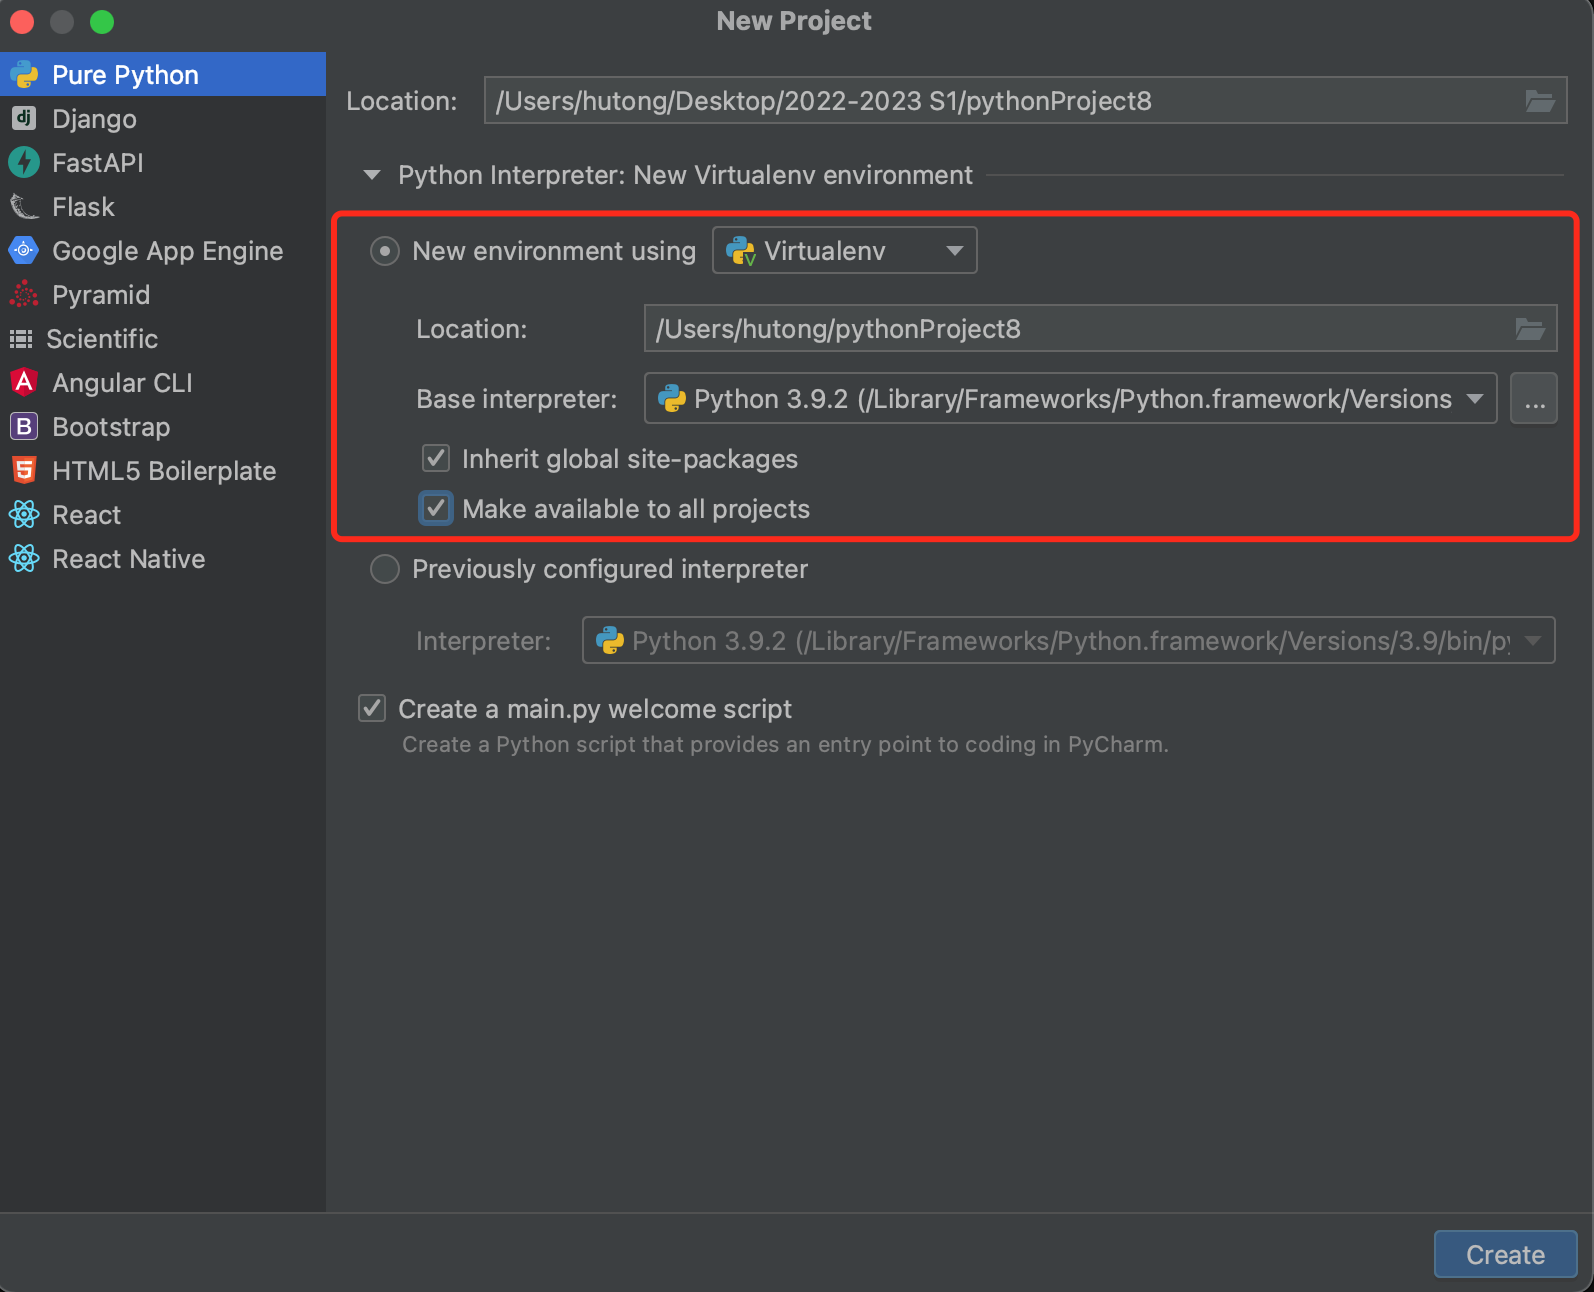
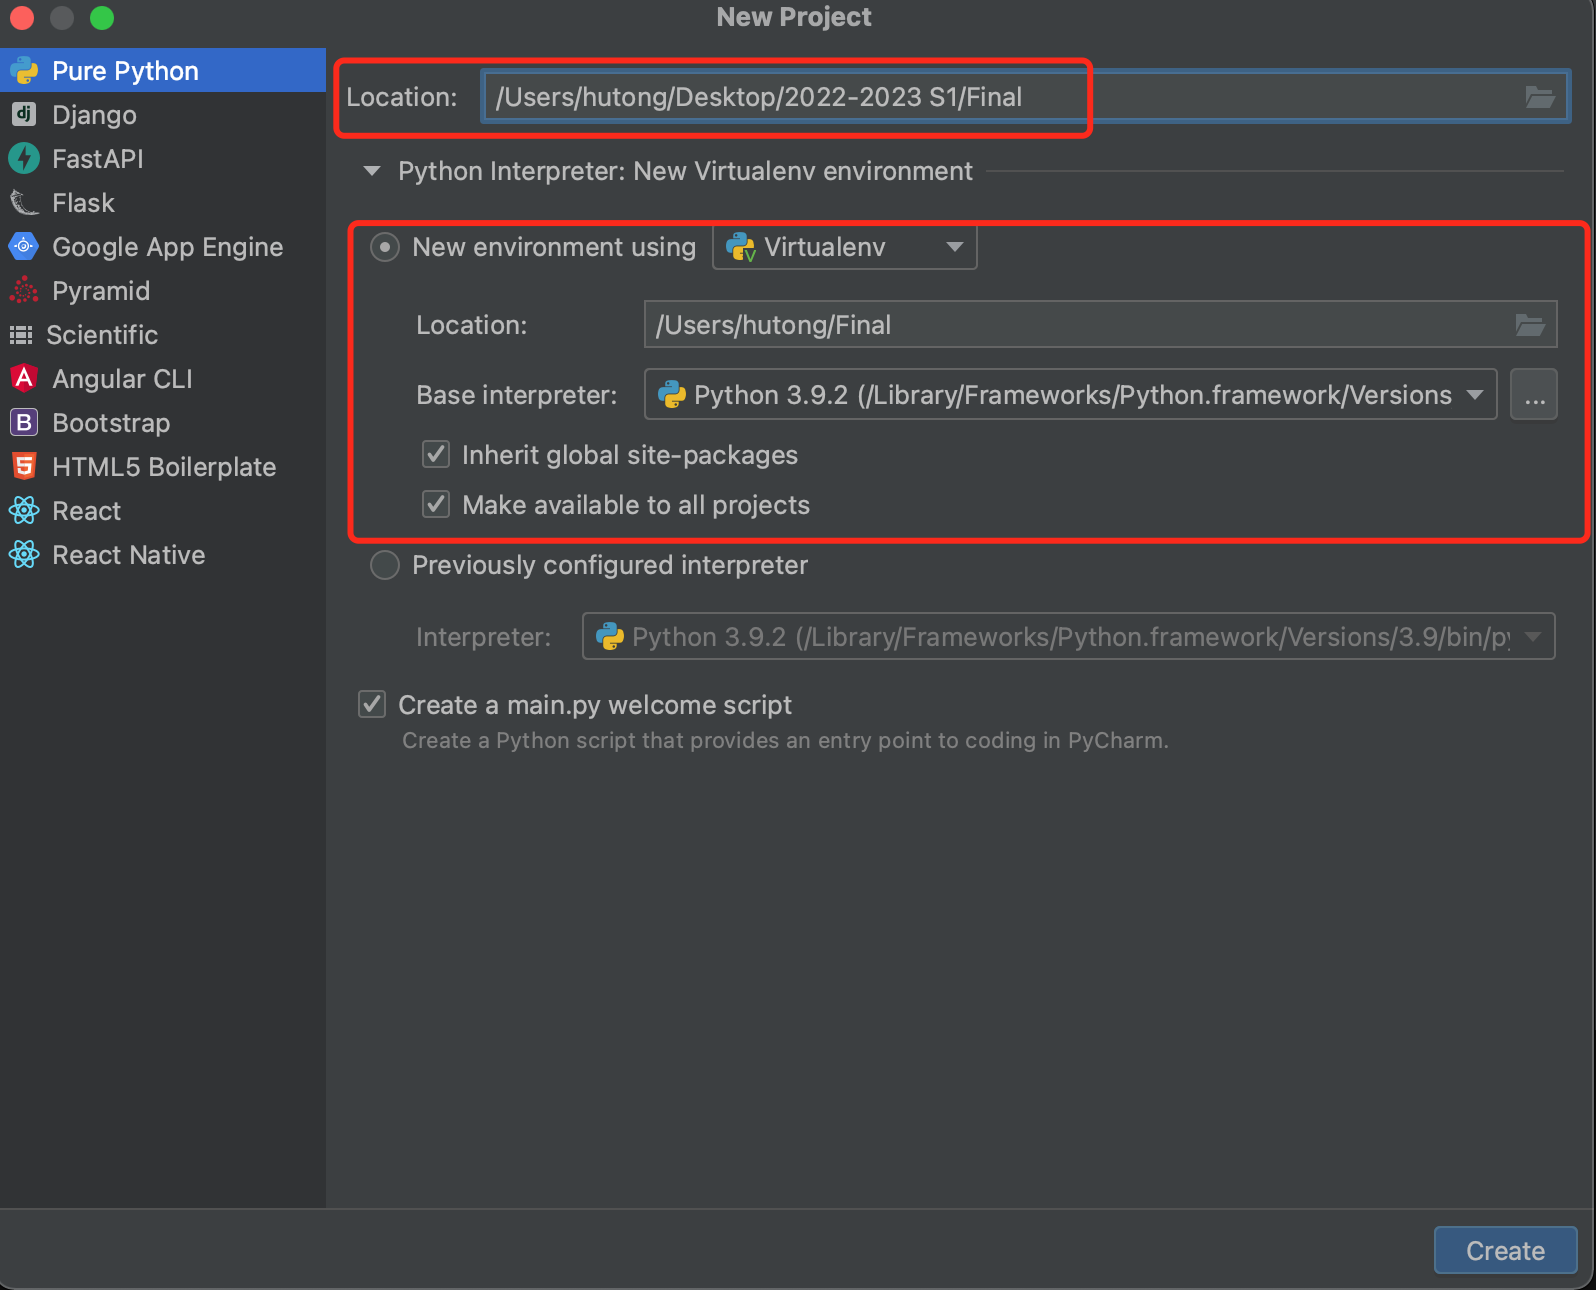
add final

Changed region(s): [[0.0, 0.0, 1.0, 1.0]]

diff --git a/final/pycharm.rst b/final/pycharm.rst
@@ -1,4 +1,4 @@
-PyCharm入门
+PyCharm安装
 ******
 
 实验
@@ -52,9 +52,9 @@ PyCharm是由JetBrains打造的编译工具。
 
 接下来关注两个红框的地方：
 
-1. Location这一栏是给你的项目进行命名的位置，你可以将最后的文件名改为你想要的任意文件名，例如hw1。
+1. 第一个Location这一栏是给你的项目进行命名的位置，你可以将最后的文件名改为你想要的任意文件名，例如Final:
 
-2. 选择第一个:
+2. 选择VirtualEnv(不用修改第二个Location)
 
 .. image:: config_inter.png
   :scale: 30%
@@ -113,7 +113,7 @@ Q&A
 
     Q1: 安装PyCharm需要花多长时间？
 
-    Answer: 配置编程环境有时候比编程还要费劲，但一旦配置成功，之后编程就会轻松很多。现在编程工具越来越人性化，几年前下载和安装工具可能需要花费一个学生3-4个小时的时间（嗯是的，我就是这个学生），但现在时间大为减少。考虑到大家是第一次安装，我预测应该会在1-2个小时之间。如果你发现超过3小时还未安装成功，请直接来联系我。
+    Answer: 配置编程环境有时候比编程还要费劲，但一旦配置成功，之后编程就会轻松很多。现在编程工具越来越人性化，几年前下载和安装工具可能需要花费3-4个小时的时间，但现在时间大为减少。考虑到大家是第一次安装，我预测应该会在1-2个小时之间。如果你发现超过3小时还未安装成功，请直接来联系我。
 
     跟编程一样，大家需要保持耐心。
 
@@ -122,10 +122,4 @@ Q&A
     Answer: 当然可以。PyCharm是支持所有操作系统的，而且这份安装教程也基本适用与你。当然你也可以参考网上的其它安装教程。
 
     在学习计算机的时候，要记住：Google is your best friend. 当你遇到什么困难的时候，你永远可以向它寻求帮助。
-
-    Q3: 我进行到第5步了，但是并没有在下拉栏中找到Python 3.10，我是不是全部做错了？
-
-    Answer: 恭喜你已经进行到第5步！和所有软件一样，Python会被安装在计算机的某个地方，我们叫做路径。如果你在PyCharm中没有找到它，你需要指明Python的路径。
-
-    Python的通常会在"usr/local/bin"或者"usr/bin"两个路径下。点击右边的三个点，然后找到/usr/local/bin，点击Python 3.10，再确定就可以了！
 
